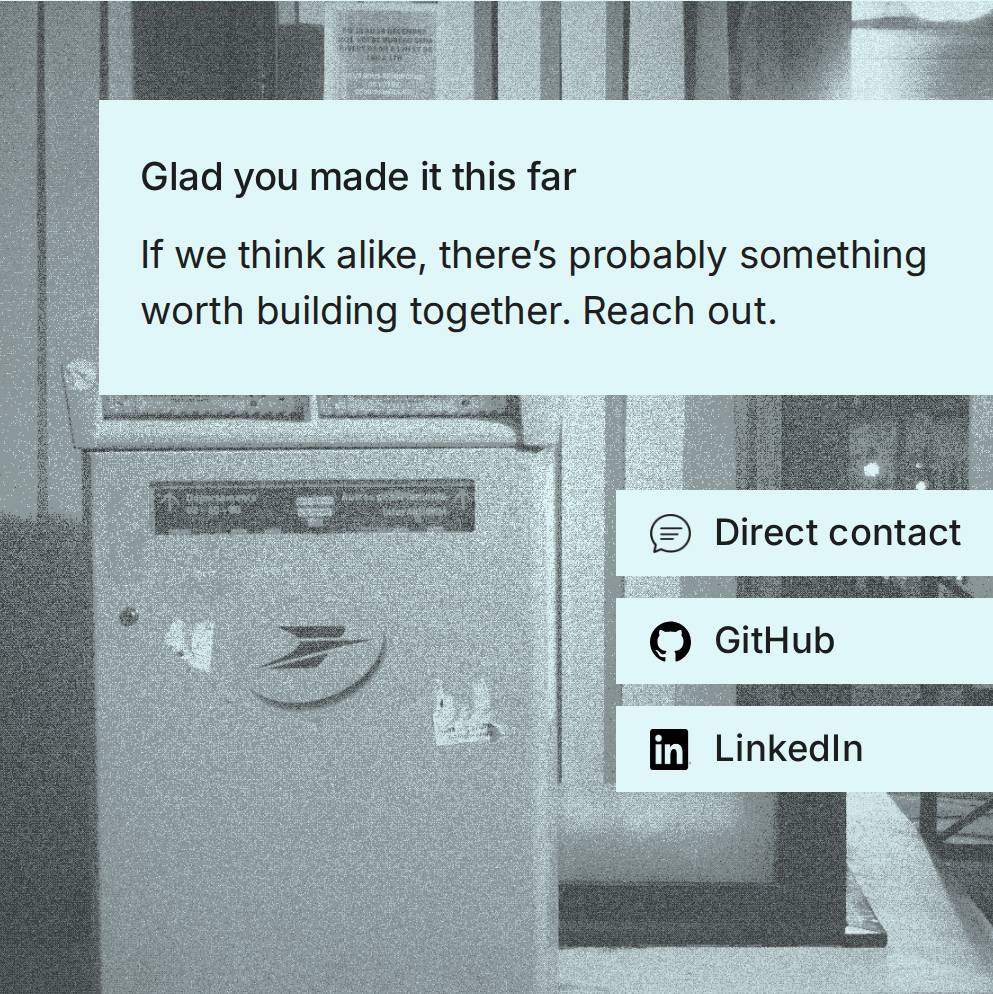
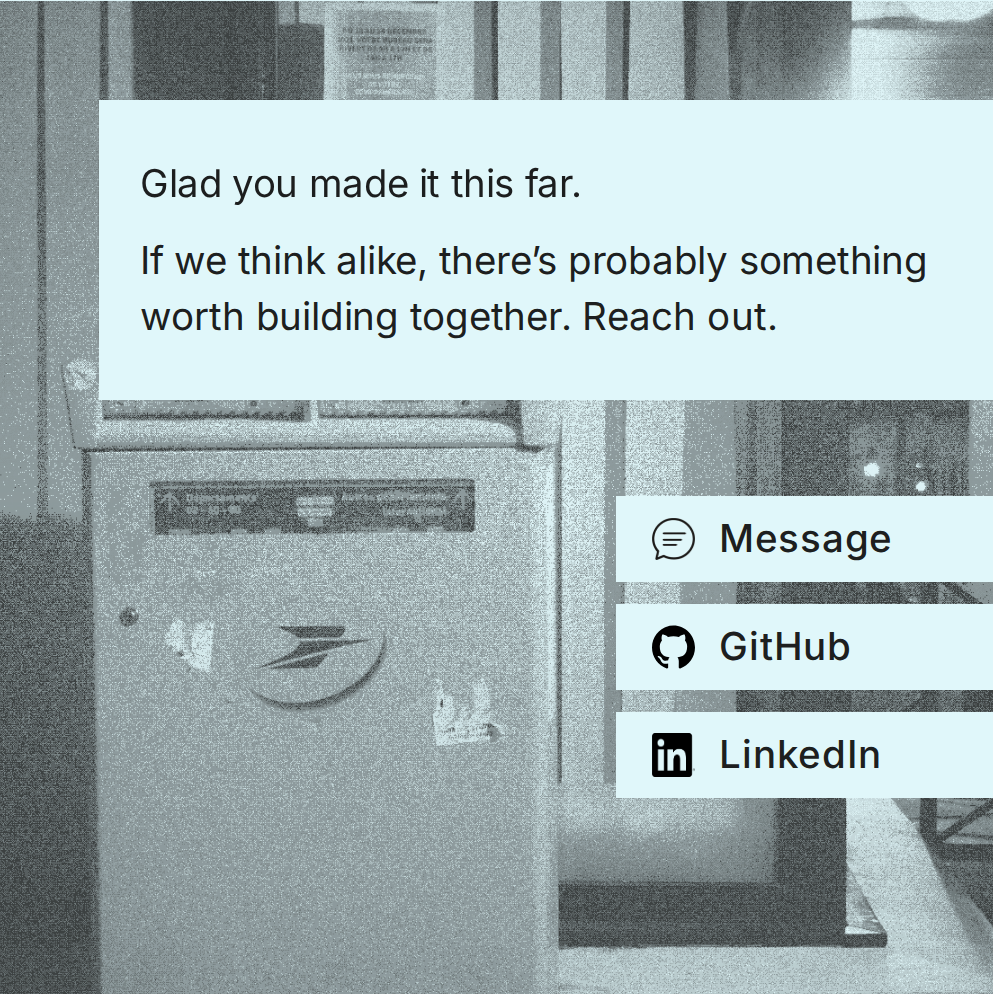
style(contact): polish landing copy, link type, and visual baseline
Rename the form link to Message, keep the lead sentence period, match link
label size to intro text at weight 500, and refresh extreme-zoom snapshot.

diff --git a/src/styles/contact.css b/src/styles/contact.css
@@ -35,7 +35,8 @@
     calc(var(--panel-fluid-font-preferred) + 0.03rem),
     var(--panel-fluid-font-max)
   );
-  --contact-links-font-scale: 0.95;
+  /* Same em size as intro inset (was 0.95 — labels looked smaller than copy). */
+  --contact-links-font-scale: 1;
   --contact-links-width: 38%;
   /* Floored by JS from panel edge; static fallback for noscript. */
   --contact-link-tail-min-px: 13px;
@@ -58,7 +59,7 @@
   }
 
   /*
-   * Narrow panel: bump weight for readability (smaller --contact-fluid-font × scale).
+   * Narrow panel: bump intro weight for readability (smaller --contact-fluid-font × scale).
    * sync: CONTACT_PANEL_* in src/constants/contact-panel-typography.ts
    */
   .contact-page__intro,
@@ -66,10 +67,6 @@
   .contact-page__intro--deck,
   .contact-page__intro-reach {
     font-weight: 500;
-  }
-
-  .contact-page .contact-extra-link .contact-extra-link__text {
-    font-weight: 600;
   }
 }
 
@@ -170,14 +167,14 @@
   flex-direction: column;
   justify-content: flex-start;
   /* Lead ↔ body: typographic step (decoupled from button row-gap). */
-  gap: clamp(0.5em, 0.4rem + 1.1vw, 0.6em);
+  gap: clamp(0.48em, 0.39rem + 1.06vw, 0.58em);
   width: calc(100% - var(--panel-padding-left, 2rem));
   max-width: calc(100% - var(--panel-padding-left, 2rem));
   /* Tight vertical footprint (more background visible); scales like --content-side-pad-compact. */
   --contact-intro-pad-left: clamp(0.62rem, 0.48rem + 1.85vw, 0.85rem);
   --contact-intro-pad-right: clamp(0.9rem, 0.72rem + 2.15vw, 1.24rem);
-  --contact-intro-pad-top: clamp(0.6rem, 0.5rem + 1.2vw, 1.04rem);
-  --contact-intro-pad-bottom: clamp(0.74rem, 0.56rem + 1.65vw, 1.18rem);
+  --contact-intro-pad-top: clamp(0.76rem, 0.52rem + 1.25vw, 1.19rem);
+  --contact-intro-pad-bottom: clamp(0.74rem, 0.56rem + 1.65vw, 1.15rem);
   padding: var(--contact-intro-pad-top) var(--contact-intro-pad-right)
     var(--contact-intro-pad-bottom) var(--contact-intro-pad-left);
 }
@@ -224,7 +221,7 @@
   font-weight: 400;
   opacity: 0.98;
   /* Slight lift vs body; em tracks scaled inset font-size. */
-  font-size: 1em;
+  font-size: 0.995em;
 }
 
 .contact-page__intro--deck {
@@ -235,7 +232,7 @@
 /* "Reach out." deck text */
 .contact-page__intro-reach {
   font-weight: 400;
-  letter-spacing: 0.004em;
+  letter-spacing: 0.005em;
 }
 
 .contact-page__links {
@@ -293,9 +290,8 @@
   font-size: inherit;
   min-width: 0;
   line-height: 1.24;
-  letter-spacing: 0.01em;
-  opacity: 0.98;
-  /* Desktop: page-buttons row (500); narrow panel → 600 in @media (max-width: 36rem). */
+  letter-spacing: 0.02em;
+  /* page-buttons row weight; sync CONTACT_PANEL_LINK_TEXT_FONT_WEIGHT */
   font-weight: 500;
 }
 

diff --git a/tests/unit/layout-contracts.test.ts b/tests/unit/layout-contracts.test.ts
@@ -32,8 +32,8 @@ import { CONTACT_STATUS_LAYOUT } from '../../src/lib/contact-status';
 import {
   CONTACT_PANEL_INTRO_FONT_WEIGHT_DESKTOP,
   CONTACT_PANEL_INTRO_FONT_WEIGHT_NARROW,
-  CONTACT_PANEL_LINK_TEXT_FONT_WEIGHT_DESKTOP,
-  CONTACT_PANEL_LINK_TEXT_FONT_WEIGHT_NARROW,
+  CONTACT_PANEL_LINKS_FONT_SCALE,
+  CONTACT_PANEL_LINK_TEXT_FONT_WEIGHT,
   CONTACT_PANEL_TYPO_NARROW_MAX_WIDTH,
 } from '../../src/constants/contact-panel-typography';
 
@@ -168,20 +168,14 @@ describe('layout contracts: contact panel typography (constants ↔ contact.css)
     );
   });
 
-  it('panel link labels are 500 by default and 600 inside narrow media query', () => {
+  it('panel link labels use page-buttons weight and match intro font scale', () => {
     expect(css).toMatch(
       new RegExp(
-        `\\.contact-page \\.contact-extra-link \\.contact-extra-link__text\\s*\\{[^}]*font-weight:\\s*${CONTACT_PANEL_LINK_TEXT_FONT_WEIGHT_DESKTOP}`,
+        `\\.contact-page \\.contact-extra-link \\.contact-extra-link__text\\s*\\{[^}]*font-weight:\\s*${CONTACT_PANEL_LINK_TEXT_FONT_WEIGHT}`,
       ),
     );
-    const narrowBlock = css.slice(
-      css.indexOf(`@media (max-width: ${CONTACT_PANEL_TYPO_NARROW_MAX_WIDTH})`),
-    );
-    expect(narrowBlock).toContain(
-      '.contact-page .contact-extra-link .contact-extra-link__text',
-    );
-    expect(narrowBlock).toContain(
-      `font-weight: ${CONTACT_PANEL_LINK_TEXT_FONT_WEIGHT_NARROW}`,
+    expect(css).toContain(
+      `--contact-links-font-scale: ${CONTACT_PANEL_LINKS_FONT_SCALE}`,
     );
   });
 });

diff --git a/src/constants/contact-panel-typography.ts b/src/constants/contact-panel-typography.ts
@@ -7,5 +7,7 @@ export const CONTACT_PANEL_TYPO_NARROW_MAX_WIDTH = '36rem';
 export const CONTACT_PANEL_INTRO_FONT_WEIGHT_DESKTOP = 400;
 export const CONTACT_PANEL_INTRO_FONT_WEIGHT_NARROW = 500;
 
-export const CONTACT_PANEL_LINK_TEXT_FONT_WEIGHT_DESKTOP = 500;
-export const CONTACT_PANEL_LINK_TEXT_FONT_WEIGHT_NARROW = 600;
+/** Message / GitHub / LinkedIn labels (matches page-buttons row). */
+export const CONTACT_PANEL_LINK_TEXT_FONT_WEIGHT = 500;
+/** Multiplier on links inset font-size; 1 = same as intro block. */
+export const CONTACT_PANEL_LINKS_FONT_SCALE = 1;

diff --git a/e2e/pages.spec.ts b/e2e/pages.spec.ts
@@ -474,7 +474,7 @@ test.describe('Contact page (/contact)', () => {
     await expect(introRect).toBeVisible();
     const introPs = introRect.locator('.contact-page__intro');
     await expect(introPs).toHaveCount(2);
-    await expect(introPs.nth(0)).toHaveText('Glad you made it this far');
+    await expect(introPs.nth(0)).toHaveText('Glad you made it this far.');
     await expect(introPs.nth(0)).toHaveClass(/contact-page__intro--lead/);
     await expect(introPs.nth(1)).toHaveClass(/contact-page__intro--deck/);
     await expect(introPs.nth(1)).toHaveText(
@@ -484,7 +484,7 @@ test.describe('Contact page (/contact)', () => {
       introPs.nth(1).locator('.contact-page__intro-reach'),
     ).toHaveText('Reach out.');
 
-    const formLink = page.getByRole('link', { name: /Direct contact/i });
+    const formLink = page.getByRole('link', { name: 'Message', exact: true });
     await expect(formLink).toBeVisible();
     await expect(formLink).toHaveAttribute('href', '/contact/form');
     await expect(formLink.locator('img')).toHaveAttribute(